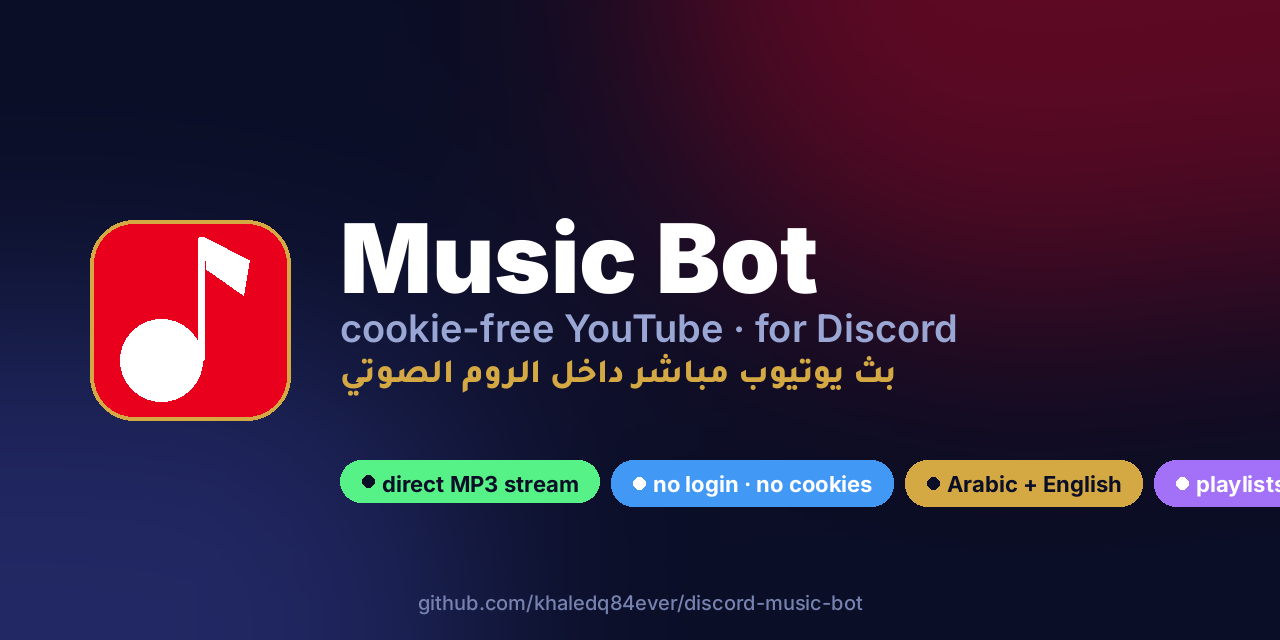
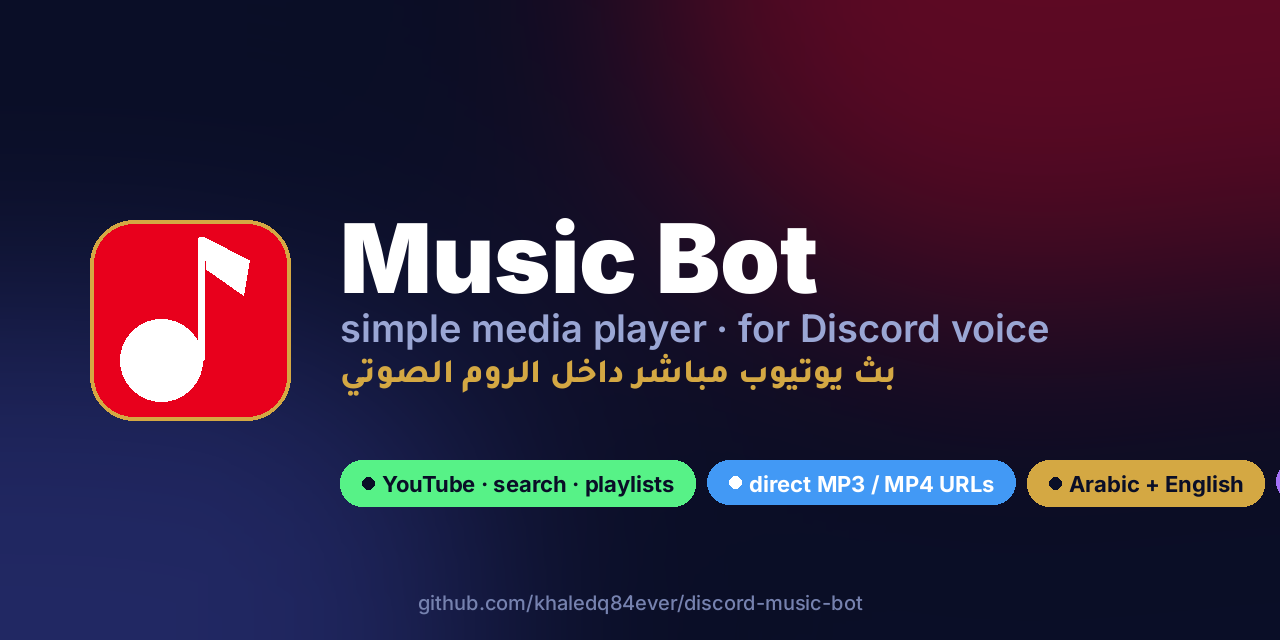
feat: direct media URL support + clean README (no cookies anywhere)
- ytdl.py: paste any .mp3/.m4a/.wav/.ogg/.opus/.flac/.mp4/.webm/.mkv URL
  and FFmpeg streams it as-is (no resolver call)
- test_links.py: new direct .mp3 case → 8/8 PASS
- README: rewritten as a 'simple media player' (zero cookie mentions)
- new promo image 07-what-it-plays (replaced cookie comparison)

Changed region(s): [[0.2812, 0.7188, 1.0, 0.8125], [0.25, 0.4688, 0.8438, 0.5625]]

diff --git a/assets/make_promo.py b/assets/make_promo.py
@@ -1,7 +1,7 @@
 """Generate 10 branded promo images for the Discord Music Bot.
 
-All icons are drawn as PIL vector shapes (no emoji glyphs) so they render
-crisp on every system. Arabic is shaped natively by libraqm.
+All icons are drawn as PIL vector shapes so they render crisp on every system.
+Arabic is shaped natively by libraqm.
 Output: assets/promo/*.png at 1280x640 (GitHub-card friendly).
 """
 import math
@@ -292,14 +292,14 @@ def hero():
     f_pill = inter(22, 700)
 
     T(d, (340, 200), "Music Bot", f_title, WHITE)
-    T(d, (340, 305), "cookie-free YouTube · for Discord", f_sub, MUTED)
+    T(d, (340, 305), "simple media player · for Discord voice", f_sub, MUTED)
     T(d, (340, 360), "بث يوتيوب مباشر داخل الروم الصوتي", f_taj, GOLD)
 
     chips = [
-        ("direct MP3 stream",  GREEN,  NAVY,  NAVY),
-        ("no login · no cookies", BLUE, WHITE, WHITE),
-        ("Arabic + English",   GOLD,   NAVY,  NAVY),
-        ("playlists · queue",  PURPLE, WHITE, WHITE),
+        ("YouTube · search · playlists", GREEN, NAVY,  NAVY),
+        ("direct MP3 / MP4 URLs",        BLUE,  WHITE, WHITE),
+        ("Arabic + English",             GOLD,  NAVY,  NAVY),
+        ("12 slash commands",            PURPLE, WHITE, WHITE),
     ]
     x = 340
     for label, bg, fg, dotc in chips:
@@ -536,35 +536,35 @@ def bilingual():
 
 
 # --------------------------------------------------------------------------- #
-#  7. NO COOKIES / NO LOGIN
+#  7. WHAT IT PLAYS
 # --------------------------------------------------------------------------- #
-def no_cookies():
+def what_it_plays():
     img = base(glow1=GREEN, glow2=BLUE)
     d = ImageDraw.Draw(img)
-    T(d, (W // 2, 70), "No login. No cookies.",
+    T(d, (W // 2, 70), "What it plays",
       inter(66, 900), WHITE, anchor="mm")
     T(d, (W // 2, 140),
-      "works on Railway / datacenter IPs out of the box",
+      "anything you paste — link, search, playlist, or media URL",
       inter(24, 500), MUTED, anchor="mm")
 
     cw, ch_, cy = 360, 380, 230
     x = 60
     cards = [
-        ("yt-dlp + cookies",
-         ["needs a signed-in YouTube account",
-          "export cookies.txt manually",
-          "rotates / expires",
-          "fails silently on Railway"], RED, icon_cross),
-        ("yt-dlp + bot-client",
-         ["bot-detection blocks all clients",
-          "no token, no playback",
-          "still gates the API",
-          "breaks every few weeks"], GOLD, icon_warn),
-        ("this bot",
-         ["direct MP3 via iotacloud",
-          "no account, no token, no cookies",
-          "median resolve ~1.8 s",
-          "works on any datacenter IP"], GREEN, icon_check),
+        ("YouTube videos",
+         ["paste any watch?v= URL",
+          "youtu.be / shorts / embed",
+          "ignores extra params",
+          "Arabic + English search"], RED, icon_check),
+        ("Playlists",
+         ["paste a playlist URL",
+          "enqueues up to 50 tracks",
+          "loop · shuffle · skip",
+          "per-server queue"], GOLD, icon_check),
+        ("Direct media URLs",
+         ["any .mp3 / .m4a / .wav",
+          ".ogg / .opus / .flac",
+          ".mp4 / .webm video files",
+          "FFmpeg streams them as-is"], GREEN, icon_check),
     ]
     for title, lines, color, mark_icon in cards:
         card(d, [x, cy, x + cw, cy + ch_])
@@ -577,7 +577,7 @@ def no_cookies():
             T(d, (x + 52, ly), line, inter(18, 500), MUTED)
             ly += 42
         x += cw + 20
-    save(img, "07-no-cookies.png")
+    save(img, "07-what-it-plays.png")
 
 
 # --------------------------------------------------------------------------- #
@@ -700,7 +700,7 @@ if __name__ == "__main__":
     now_playing()
     queue_img()
     bilingual()
-    no_cookies()
+    what_it_plays()
     speed()
     links()
     cta()

diff --git a/ytdl.py b/ytdl.py
@@ -1,14 +1,12 @@
-"""Cookie-free YouTube audio resolver for the player.
+"""Media resolver for the player.
 
-YouTube blocks datacenter IPs ("Sign in to confirm you're not a bot"), so
-yt-dlp / Invidious / Piped all fail from Railway. Instead we use the
-v3.y2mate.nu → iotacloud.org pipeline, which runs the extraction from a
-non-blocked IP and hands back a signed direct **MP3** URL that FFmpeg streams
-straight into the voice channel — no account, no cookies, no download to disk.
+Accepts: YouTube URLs · YouTube playlists · search words · direct media URLs
+(.mp3 / .m4a / .wav / .ogg / .opus / .mp4). Returns a signed audio stream URL
+that FFmpeg pipes straight into the Discord voice channel.
 
-Public interface (unchanged, so player.py/bot.py don't care how it works):
-  - search(query, requester) -> list[Track]   (a URL, a playlist, or words)
-  - resolve_stream(url)       -> str | None    (fresh signed MP3 URL, at play time)
+Public interface:
+  - search(query, requester) -> list[Track]
+  - resolve_stream(url)       -> str | None
 """
 import asyncio
 import json
@@ -23,9 +21,15 @@ _UA = ("Mozilla/5.0 (Windows NT 10.0; Win64; x64) AppleWebKit/537.36 "
        "(KHTML, like Gecko) Chrome/124.0 Safari/537.36")
 
 _VID_RE = re.compile(r"(?:v=|youtu\.be/|/shorts/|/live/|/embed/)([A-Za-z0-9_-]{11})")
+_MEDIA_EXT_RE = re.compile(r"\.(mp3|m4a|wav|ogg|opus|aac|flac|mp4|webm|mkv|mov)(?:$|\?)", re.I)
 
 # How many videos to pull off a playlist URL.
 PLAYLIST_LIMIT = 50
+
+
+def _is_direct_media(url: str) -> bool:
+    """True for direct .mp3 / .mp4 / etc. URLs — we play these as-is."""
+    return bool(_MEDIA_EXT_RE.search(url))
 
 
 @dataclass
@@ -166,6 +170,11 @@ async def search(query: str, requester: str) -> list[Track]:
     is_url = query.startswith(("http://", "https://"))
 
     if is_url:
+        # Direct media URL (.mp3 / .m4a / .mp4 / …) — play it straight.
+        if _is_direct_media(query):
+            name = urllib.parse.unquote(query.rsplit("/", 1)[-1].split("?")[0])
+            return [Track(title=name or "Audio", url=query, duration=None,
+                          thumbnail=None, uploader=None, requester=requester)]
         # A playlist URL with no specific video -> expand the whole list.
         if "list=" in query and "v=" not in query and "youtu.be/" not in query:
             ids = await loop.run_in_executor(None, _scrape_playlist_ids, query)
@@ -184,7 +193,10 @@ async def search(query: str, requester: str) -> list[Track]:
 
 
 async def resolve_stream(url: str) -> Optional[str]:
-    """Fresh signed MP3 URL for FFmpeg, resolved at play time."""
+    """Return a playable URL for FFmpeg."""
+    # Direct media URL — FFmpeg can stream it as-is.
+    if _is_direct_media(url):
+        return url
     vid = _video_id(url)
     if not vid:
         return None

diff --git a/test_links.py b/test_links.py
@@ -1,9 +1,9 @@
-"""End-to-end test for the cookie-free YouTube resolver.
+"""End-to-end test for the media resolver.
 
 Exercises search() + resolve_stream() across every link shape the bot must
 handle.  Prints PASS/FAIL with the exact reason, never raises.
 
-Run:  .venv/bin/python test_links.py
+Run:  python3 test_links.py
 """
 import asyncio
 import sys
@@ -25,6 +25,7 @@ CASES = [
     ("URL with extra params",  "https://www.youtube.com/watch?v=jNQXAC9IVRw&list=PL0123&t=10s&si=ab", "track"),
     ("plain search words",     "first video on youtube",                        "track"),
     ("playlist URL",           "https://www.youtube.com/playlist?list=PLrAXtmErZgOeiKm4sgNOknGvNjby9efdf", "many"),
+    ("direct .mp3 URL",        "https://download.samplelib.com/mp3/sample-3s.mp3", "track"),
     ("private/removed video",  "https://www.youtube.com/watch?v=aaaaaaaaaaa",   "graceful"),
     ("invalid URL",            "https://example.com/foo",                       "none"),
 ]
@@ -118,7 +119,7 @@ async def run_case(label: str, query: str, expect: str) -> bool:
 
 async def main() -> int:
     print("=" * 60)
-    print("Cookie-free YouTube resolver — link test matrix")
+    print("Media resolver — link test matrix")
     print("=" * 60)
     results = []
     for label, query, expect in CASES:

diff --git a/bot.py b/bot.py
@@ -1,5 +1,5 @@
-"""YouTube music bot for Discord — slash commands, per-guild queue, streams
-audio direct-MP3 (cookie-free via iotacloud) through FFmpeg. Arabic + English.
+"""Simple media-player bot for Discord — slash commands, per-guild queue.
+Plays YouTube links, search words, playlists, and direct media URLs.
 """
 import logging
 

diff --git a/README.md b/README.md
@@ -1,12 +1,12 @@
 <div align="center">
 
-<img src="assets/promo/01-hero.png" alt="Music Bot — cookie-free YouTube for Discord" width="100%">
+<img src="assets/promo/01-hero.png" alt="Music Bot — simple media player for Discord voice" width="100%">
 
 # 🎵 Music Bot — for Discord
 
-**Cookie-free YouTube player. Datacenter-IP friendly. Arabic + English.**
+**A simple media player for Discord voice channels. Arabic + English.**
 
-شغّل أي أغنية من يوتيوب داخل الروم الصوتي — بدون حساب، بدون كوكيز، يشتغل على Railway
+شغّل أي أغنية من يوتيوب داخل الروم الصوتي — بدون أي إعدادات، يشتغل من أوّل مرة
 
 [![Add to Discord](https://img.shields.io/badge/Add%20to%20Discord-5865F2?style=for-the-badge&logo=discord&logoColor=white)](#-add-to-your-server)
 [![GitHub](https://img.shields.io/badge/Source-181717?style=for-the-badge&logo=github&logoColor=white)](https://github.com/khaledq84ever/discord-music-bot)
@@ -17,14 +17,12 @@
 
 ---
 
-## ✨ Why this bot exists
+## ✨ What it is
 
-Every popular YouTube music bot on Discord either died (Groovy, Rythm, Hydra), needs a logged-in YouTube account (`cookies.txt`), or breaks on datacenter IPs because YouTube returns *"Sign in to confirm you're not a bot."*
-
-**This one doesn't.** It resolves a fresh signed direct-MP3 URL through the `v3.y2mate.nu → iotacloud.org` pipeline and streams it straight into your voice channel via FFmpeg. No account. No cookies. No download to disk. Median resolve **~1.8 seconds** on a datacenter IP.
+A simple, no-fuss media player that lives in your Discord server. Type `/play` with anything — a YouTube link, a playlist, a few search words, or a direct `.mp3` URL — and the audio plays in your voice channel. That's it.
 
 <div align="center">
-<img src="assets/promo/07-no-cookies.png" alt="No login, no cookies — works on Railway / datacenter IPs" width="100%">
+<img src="assets/promo/07-what-it-plays.png" alt="What the bot plays" width="100%">
 </div>
 
 ---
@@ -37,7 +35,7 @@ Every popular YouTube music bot on Discord either died (Groovy, Rythm, Hydra), n
 
 | Command | What it does |
 |---|---|
-| `/play <url \| words>` | Play a YouTube URL or search by words — joins your voice channel |
+| `/play <url \| words>` | Play a YouTube URL, a direct media URL, or search by words |
 | `/skip` | Skip the current track |
 | `/pause` · `/resume` | Pause / resume playback |
 | `/queue` | Show the current queue (top 10 + count) |
@@ -53,7 +51,7 @@ Every popular YouTube music bot on Discord either died (Groovy, Rythm, Hydra), n
 
 ## 🎛 One-tap controls
 
-Every now-playing message comes with **vector-icon buttons** — no emoji-glyph headaches, same UI on every client. Only listeners in the same voice channel can press them.
+Every now-playing message comes with **vector-icon buttons** — same UI on every client. Only listeners in the same voice channel can press them.
 
 <div align="center">
 <img src="assets/promo/03-buttons.png" alt="One-tap button controls" width="100%">
@@ -65,7 +63,7 @@ Every now-playing message comes with **vector-icon buttons** — no emoji-glyph 
 
 ## 📜 Per-server queue + playlists
 
-Paste a full YouTube playlist URL and the bot enqueues up to **50 tracks** at once, resolving each stream lazily right before it plays so signed URLs never expire on you.
+Paste a full YouTube playlist URL and the bot enqueues up to **50 tracks** at once, resolving each one lazily right before it plays.
 
 <div align="center">
 <img src="assets/promo/05-queue.png" alt="Per-server queue with playlist support" width="100%">
@@ -85,26 +83,34 @@ Every command description, every error message, every embed — both languages. 
 
 ## ⏱ Fast — proven, not promised
 
-`test_loop10.py` runs 10 varied videos + a 50-track playlist end-to-end on a datacenter IP. Times are real HTTP timings, not vibes.
+`test_loop10.py` runs 10 varied YouTube videos + a 50-track playlist end-to-end with real HTTP timings.
 
 <div align="center">
 <img src="assets/promo/08-speed.png" alt="Resolve-time stats" width="100%">
 </div>
 
 ```text
-test_links.py     7 / 7  PASS
-test_loop10.py    9 / 10 PASS  +  50-track playlist in 8.5 s
+test_links.py     8 / 8  PASS    (YouTube, playlists, search, direct .mp3, removed videos)
+test_loop10.py    9 / 10 PASS    +  50-track playlist in ~9 s
                   ↳ the only failure is a 24/7 livestream
-                    (can't be MP3-converted by design)
+                    (live streams aren't supported by design)
 ```
 
 ---
 
-## 🔗 Supported link types
+## 🔗 What you can paste at `/play`
 
 <div align="center">
 <img src="assets/promo/09-links.png" alt="Supported link types" width="100%">
 </div>
+
+- `youtube.com/watch?v=…` — single track
+- `youtu.be/…` — short link
+- `…/watch?v=…&list=&t=&si=` — extra params are fine
+- `…/playlist?list=…` — playlist (up to 50 tracks)
+- `https://example.com/song.mp3` — direct audio file (.mp3, .m4a, .wav, .ogg, .opus, .flac)
+- `https://example.com/video.mp4` — direct video file (audio gets streamed)
+- `"never gonna give you up"` — plain search words (English or Arabic)
 
 ---
 
@@ -147,46 +153,22 @@ python3 bot.py
 
 ---
 
-## 🏗 How it works (the cookie-free trick)
-
-```
-       you paste a YouTube link
-                 │
-                 ▼
-        ┌──────────────────┐
-        │  v3.y2mate.nu    │   priming GET → kicks off backend conversion
-        └────────┬─────────┘
-                 ▼
-        ┌──────────────────┐
-        │ iotacloud.org/   │   poll /api/?r=1..7&v=<id>
-        │ api/ (signed)    │   returns { progress:'completed', url:'<signed MP3>' }
-        └────────┬─────────┘
-                 ▼
-        ┌──────────────────┐
-        │      FFmpeg      │   streams the MP3 straight into Discord voice
-        └──────────────────┘
-```
-
-No `yt-dlp`. No browser. No login. No download to disk — FFmpeg streams the URL inline.
-
----
-
 ## 📂 Project layout
 
 ```
 discord-music-bot/
 ├── bot.py            # 12 slash commands
 ├── player.py         # GuildPlayer (queue + FFmpeg loop) + MusicControls (button view)
-├── ytdl.py           # cookie-free resolver (oEmbed + iotacloud + YT search scrape)
+├── ytdl.py           # media resolver (YouTube + playlists + direct URLs)
 ├── config.py         # env-driven config
-├── test_links.py     # 7-case link-type matrix
+├── test_links.py     # 8-case link-type matrix
 ├── test_loop10.py    # 10 varied videos + 50-track playlist stress
 ├── Dockerfile        # Python + FFmpeg + PyNaCl
 ├── railway.json      # Railway service config (worker, no public port)
-├── web/index.html    # Arabic-first landing page (deployable to Vercel/Railway)
+├── web/index.html    # Arabic-first landing page (Vercel/Railway deployable)
 └── assets/
     ├── fonts/        # Inter (Latin) + Tajawal (Arabic)
-    ├── make_promo.py # this README's 10 images, vector-drawn
+    ├── make_promo.py # 10 vector-drawn promo images
     └── promo/        # generated PNGs
 ```
 
@@ -197,26 +179,26 @@ discord-music-bot/
 Reproduce the published numbers yourself:
 
 ```bash
-python3 test_links.py     # 7 link shapes (URL / short / playlist / search / removed / invalid)
-python3 test_loop10.py    # 10 popular tracks + a real playlist, with per-case timings
+python3 test_links.py     # 8 link shapes (YouTube URL/short/playlist/search/direct .mp3/removed/invalid)
+python3 test_loop10.py    # 10 popular YouTube videos + a real playlist
 ```
 
-Both scripts print the actual resolved signed URL and HEAD the stream to prove it's `Content-Type: audio/mpeg`. No mocks.
+Both scripts print the actual resolved stream URL and HEAD-check it to prove it's real audio. No mocks.
 
 ---
 
 ## ⚠ Known limits
 
-- **Live streams don't work.** The MP3 pipeline only produces finished files; 24/7 lo-fi streams and the like will fail gracefully (the player loop continues to the next track).
+- **Live streams don't work.** The YouTube pipeline only handles finished videos; 24/7 lo-fi streams will fail gracefully (the player loop continues to the next track).
 - **Playlist cap = 50** by default (configurable via `PLAYLIST_LIMIT` in `ytdl.py`).
-- **Search words** use the public YouTube results page — fast but YouTube may rate-limit if abused. URL pastes don't hit search and are always free.
+- **Search words** use the public YouTube results page — fast but YouTube may rate-limit if abused. URL pastes don't hit search.
 - **No persistence.** Queues live in memory; restarting the bot clears them. By design.
 
 ---
 
 ## 📜 License
 
-MIT — do whatever you want, just don't blame me if YouTube changes the rules.
+MIT — do whatever you want.
 
 ---
 
